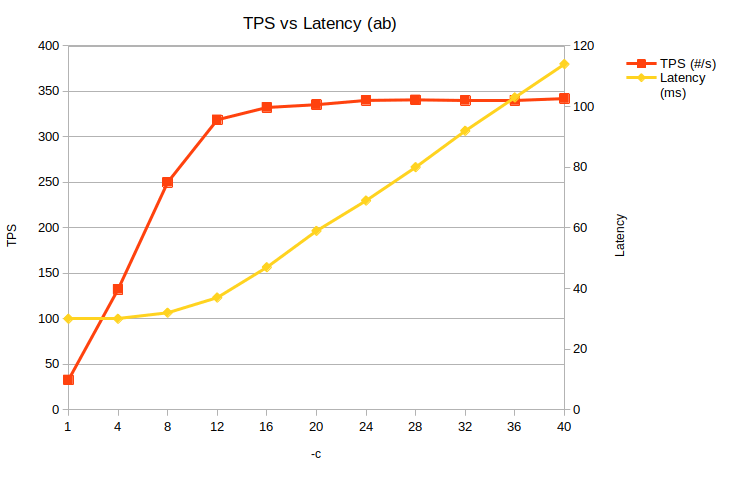
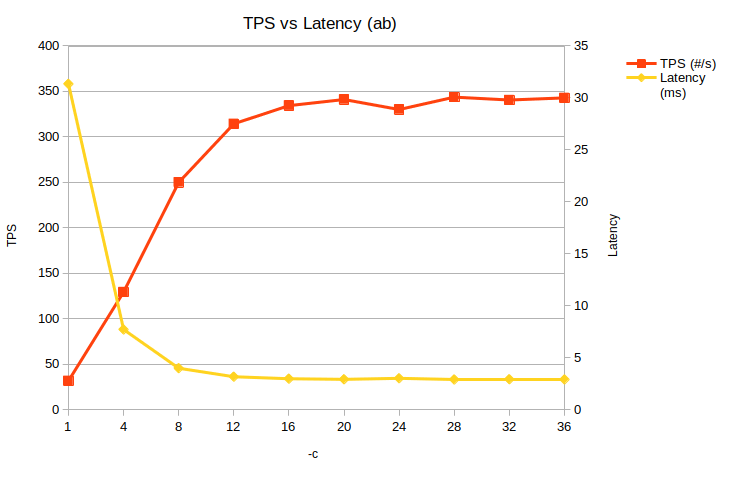
added go server and propper analysis

diff --git a/goab.go b/goab.go
@@ -7,7 +7,7 @@ import (
 	"time"
 )
 
-var n, c, totalErrors int = 1000, 300, 0
+var n, c, totalErrors int = 1000, 36, 0
 var totalTime float64 = 0
 var k bool = false
 var address string = "https://www.docker.com/"
@@ -42,7 +42,7 @@ func goab() {
 			go concurrentRequests(errorsCH, n/c)
 		}
 	}
-	// Retrieve error values, and make sure that goroutines end
+	// Retrieve error values, and make sure that goroutines finish
 	for i := 0; i < n; i++ {
 		totalErrors += <-errorsCH
 	}
@@ -59,25 +59,25 @@ func initClient() {
 func setParameters() {
 	var cs, ns, ks, ad string
 
-	fmt.Println("Input c parameter")
+	fmt.Println("Input c parameter (default is 1)")
 	fmt.Scanln(&cs)
 	c, _ = strconv.Atoi(cs)
 
-	fmt.Println("Input n parameter")
+	fmt.Println("Input n parameter (default is 1)")
 	fmt.Scanln(&ns)
 	n, _ = strconv.Atoi(ns)
 
-	fmt.Println("Input 'y' for k = true, 'n' otherwise")
+	fmt.Println("Input 1 for k = true (default is false)")
 	fmt.Scanln(&ks)
-	if ks == "y" {
+	if ks == "1" {
 		k = true
 		initClient()
 	}
 
-	fmt.Println("Input server address or press 'enter' for default address: https://www.docker.com")
+	fmt.Println("If the go server is running, input 1 for http://localhost:8080/ (default is https://www.docker.com/)")
 	fmt.Scanln(&ad)
-	if ad != "" {
-		address = ad
+	if ad == "1" {
+		address = "http://localhost:8080/"
 	}
 }
 
@@ -92,11 +92,10 @@ func printResults() {
 }
 
 func main() {
-	// setParameters()
-
+	setParameters()
+	fmt.Println("Benchmarking...")
 	start := time.Now()
 	goab()
 	totalTime = float64(time.Since(start))
-
 	printResults()
 }

diff --git a/server.go b/server.go
@@ -1,0 +1,17 @@
+package main
+
+import (
+	"fmt"
+	"log"
+	"net/http"
+)
+
+func HelloHandler(w http.ResponseWriter, r *http.Request) {
+	fmt.Fprintf(w, "Hello, there\n")
+}
+
+func main() {
+	http.HandleFunc("/", HelloHandler)
+	fmt.Println("Server started at port 8080")
+	log.Fatal(http.ListenAndServe(":8080", nil))
+}

diff --git a/README.md b/README.md
@@ -4,7 +4,7 @@ Autor: Sergi Gomà Cruells
 
 
 
-## Anàlisi dels paràmetres de Apache Benchmark
+## Anàlisi de la influència dels paràmetres de Apache Benchmark
 
 *Totes les proves s'han realitzat amb un processador i7-7700k de quatre cores a 4,82 GHz.*
 
@@ -12,27 +12,26 @@ Autor: Sergi Gomà Cruells
 
 ### Paràmetre -c
 
-El paràmetre -c es fa servir per indicar quantes transaccions es fan a l'hora, és a dir, és un paràmetre per configurar la concurrència. Fent servir la comanda `docker run --rm jordi/ab -c 10 -n 1000 https://www.docker.com/`, faré 1.000 transaccions a la web de docker, amb diversos valors de concurrència.
+El paràmetre -c es fa servir per indicar quantes transaccions es fan a l'hora, és a dir, és un paràmetre per configurar la concurrència. Fent servir la comanda `docker run --rm jordi/ab -c 10 -n 1000 https://www.docker.com/`, faré 1000 transaccions a la web de docker, amb diversos valors de concurrència.
 
 Aquests són els resultats:
 
 | -c   | TPS (#/s) | Latency (ms) | CPU (%) |
 | ---- | --------- | ------------ | ------- |
-| 1    | 32.94     | 30           | 1.3     |
-| 4    | 132.44    | 30           | 5       |
-| 8    | 250.16    | 32           | 6.7     |
-| 12   | 318.8     | 37           | 7.6     |
-| 16   | 332.33    | 47           | 9.6     |
-| 20   | 335.42    | 59           | 10.2    |
-| 24   | 340.12    | 69           | 10.5    |
-| 28   | 340.74    | 80           | 11      |
-| 32   | 340.09    | 92           | 10.4    |
-| 36   | 340.03    | 103          | 11.3    |
-| 40   | 342.11    | 114          | 11.1    |
+| 1    | 31.9      | 31.345       | 1.3     |
+| 4    | 129.52    | 7.721        | 5       |
+| 8    | 250.02    | 4            | 6.7     |
+| 12   | 314.4     | 3.181        | 7.3     |
+| 16   | 334.37    | 2.991        | 8.9     |
+| 20   | 341.1     | 2.932        | 10.2    |
+| 24   | 330.11    | 3.029        | 10.5    |
+| 28   | 343.74    | 2.909        | 11      |
+| 32   | 340.57    | 2.936        | 10.4    |
+| 36   | 342.91    | 2.916        | 11.3    |
 
 ![Texto alternativo](tpsLatencyAb.png)
 
-Els resultats mostren que a mesura que s'incrementa la concurrència, les transaccions per segon augmenten fins que arriben a unes 340 amb nivell de concurrència 20, on s'estabilitzen. A partir d'aquí, un valor més alt de concurrència només introduirà més latència, sense millorar el temps d'execució. Respecte al percentatge d'ús de la CPU, s'incrementa fins a una utilització al voltant del 10%, que coincideix amb el nivell de concurrència 20 esmentat. La opció més eficient seria utilitzar una concurrència d'entre 16 i 20, per maximitzar les TPS sense perdre molts temps de latència.
+Els resultats mostren que a mesura que s'incrementa la concurrència, les transaccions per segon augmenten fins que arriben a unes 340 amb nivell de concurrència 20, on s'estabilitzen. A partir d'aquí, un valor més alt de concurrència no millora el temps d'execució. La latència es redueix quan augmentem la concurrència, però s'estanca a 3 ms al voltant de 16 transaccions concurrents. Respecte al percentatge d'ús de la CPU, s'incrementa fins a una utilització al voltant del 10%, que coincideix amb el nivell de concurrència 20 esmentat. La opció més eficient seria utilitzar una concurrència d'entre 16 i 20, per maximitzar les TPS.
 
 
 
@@ -46,7 +45,9 @@ Aquest paràmetre serveix per habilitar la funció KeepAlive d'HTTP, que permet 
 
 ## Implementació amb Go
 
-Un cop feta la implementació amb Go, els resultats són els següents:
+Un cop feta la implementació amb Go, els resultats, extrets amb les mateixes condicions que a l'apartat anterior, són bastants similars a apache benchmark, amb la diferència de que les TPS arriben fins a 1100, i la latència es redueix fins a 1 ms.
+
+Per executar-ho, només cal escriure la comanda `go run goab.go`
 
 | -c   | TPS (#/s) | Latency (ms) |
 | ---- | --------- | ------------ |
@@ -60,7 +61,28 @@ Un cop feta la implementació amb Go, els resultats són els següents:
 | 28   | 1066.831  | 0.937        |
 | 32   | 1099.18   | 0.91         |
 | 36   | 1082.407  | 0.924        |
-| 40   | 1078.947  | 0.927        |
 
 ![Texto alternativo](tpsLatencyGoab.png)
 
+
+
+## Servidor HTTP amb Go
+
+El servidor es troba a l'arxiu server.go, i per executar-lo cal escriure la comanda `go run server.go` 
+
+La gràfica mostra la mateixa tendència que en els exemples anteriors, però en aquest cas, ja que és un servidor simple i cada crida transfereix menys MB, tenim una execució més ràpida. Concretament, les TPS arriben fins a 43000, i la latència fins a 0,023 ms. Igual que en totes les proves, les dades s'estabilitzen sobre les 20 transaccions concurrents.
+
+| -c   | TPS (#/s) | Latency (ms) |
+| ---- | --------- | ------------ |
+| 1    | 8591.209  | 0.116        |
+| 4    | 25728.681 | 0.039        |
+| 8    | 37067.419 | 0.027        |
+| 12   | 38961.385 | 0.026        |
+| 16   | 39958.545 | 0.025        |
+| 20   | 43329.229 | 0.023        |
+| 24   | 43490.847 | 0.023        |
+| 28   | 42747.723 | 0.023        |
+| 32   | 42661.992 | 0.023        |
+| 36   | 42721.368 | 0.023        |
+
+![Texto alternativo](tpsLatencyGoServer.png)
